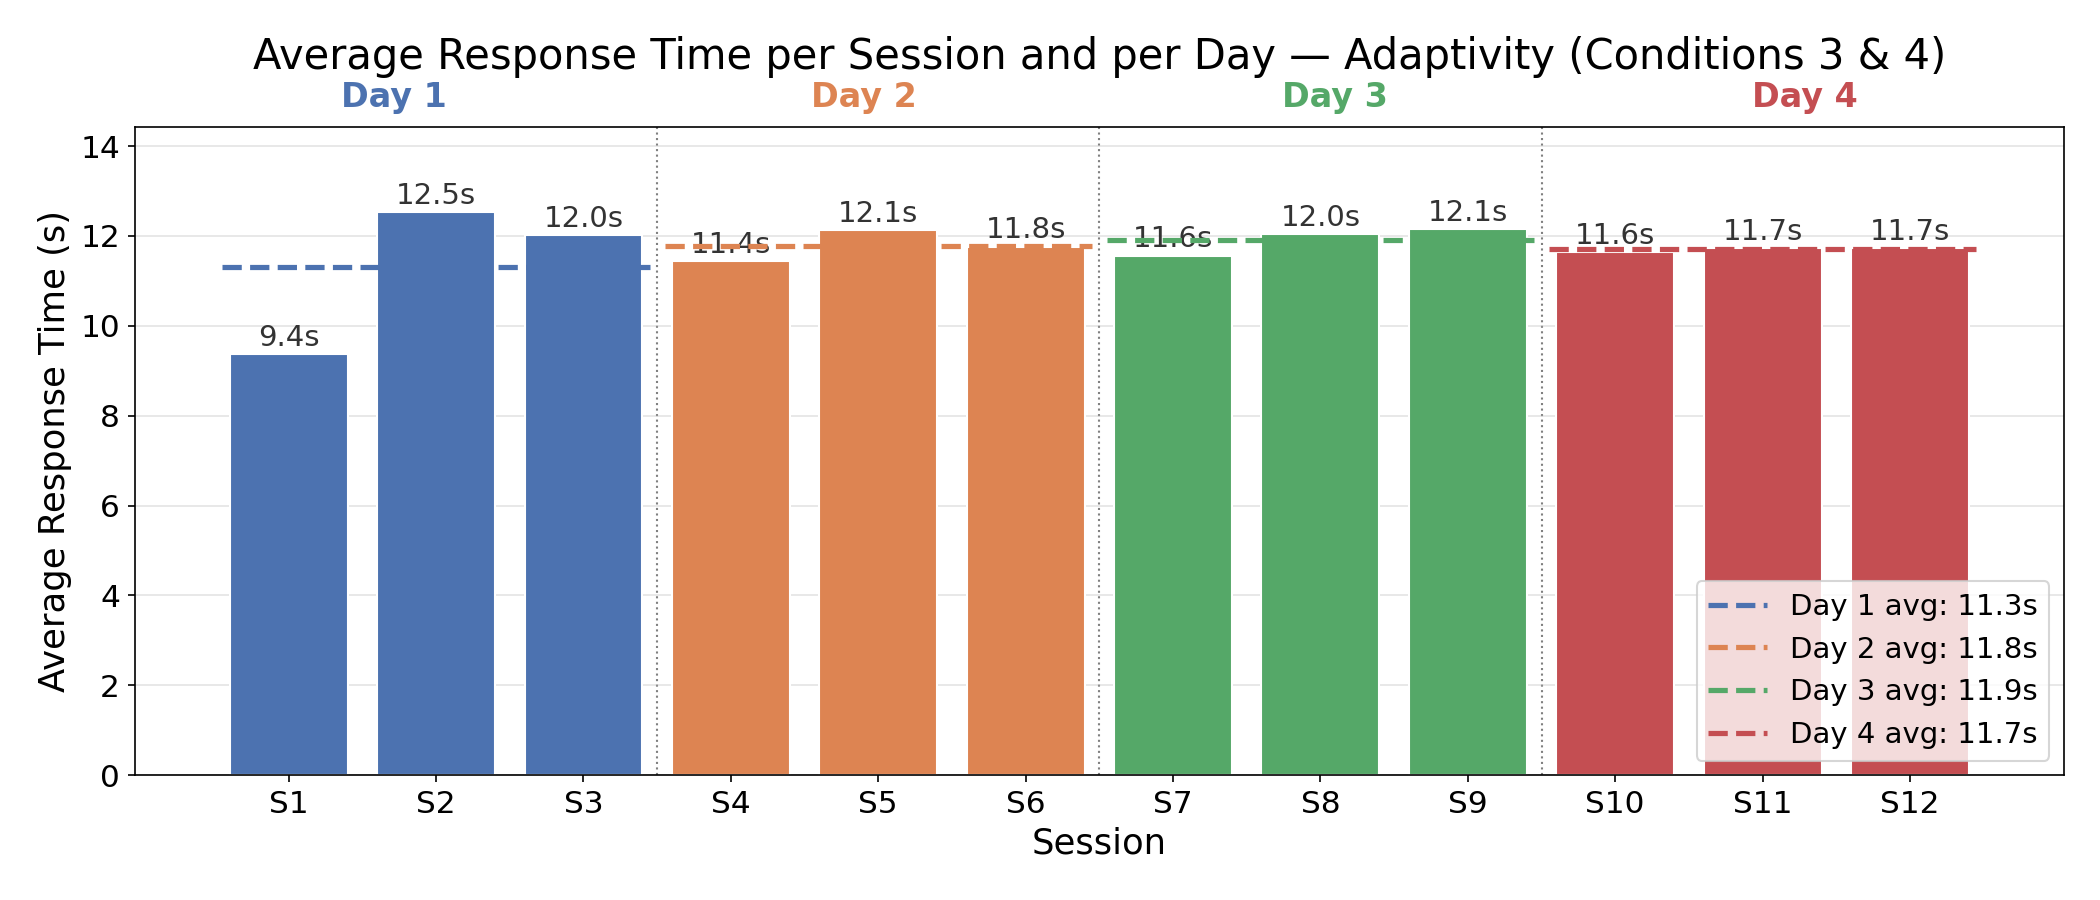
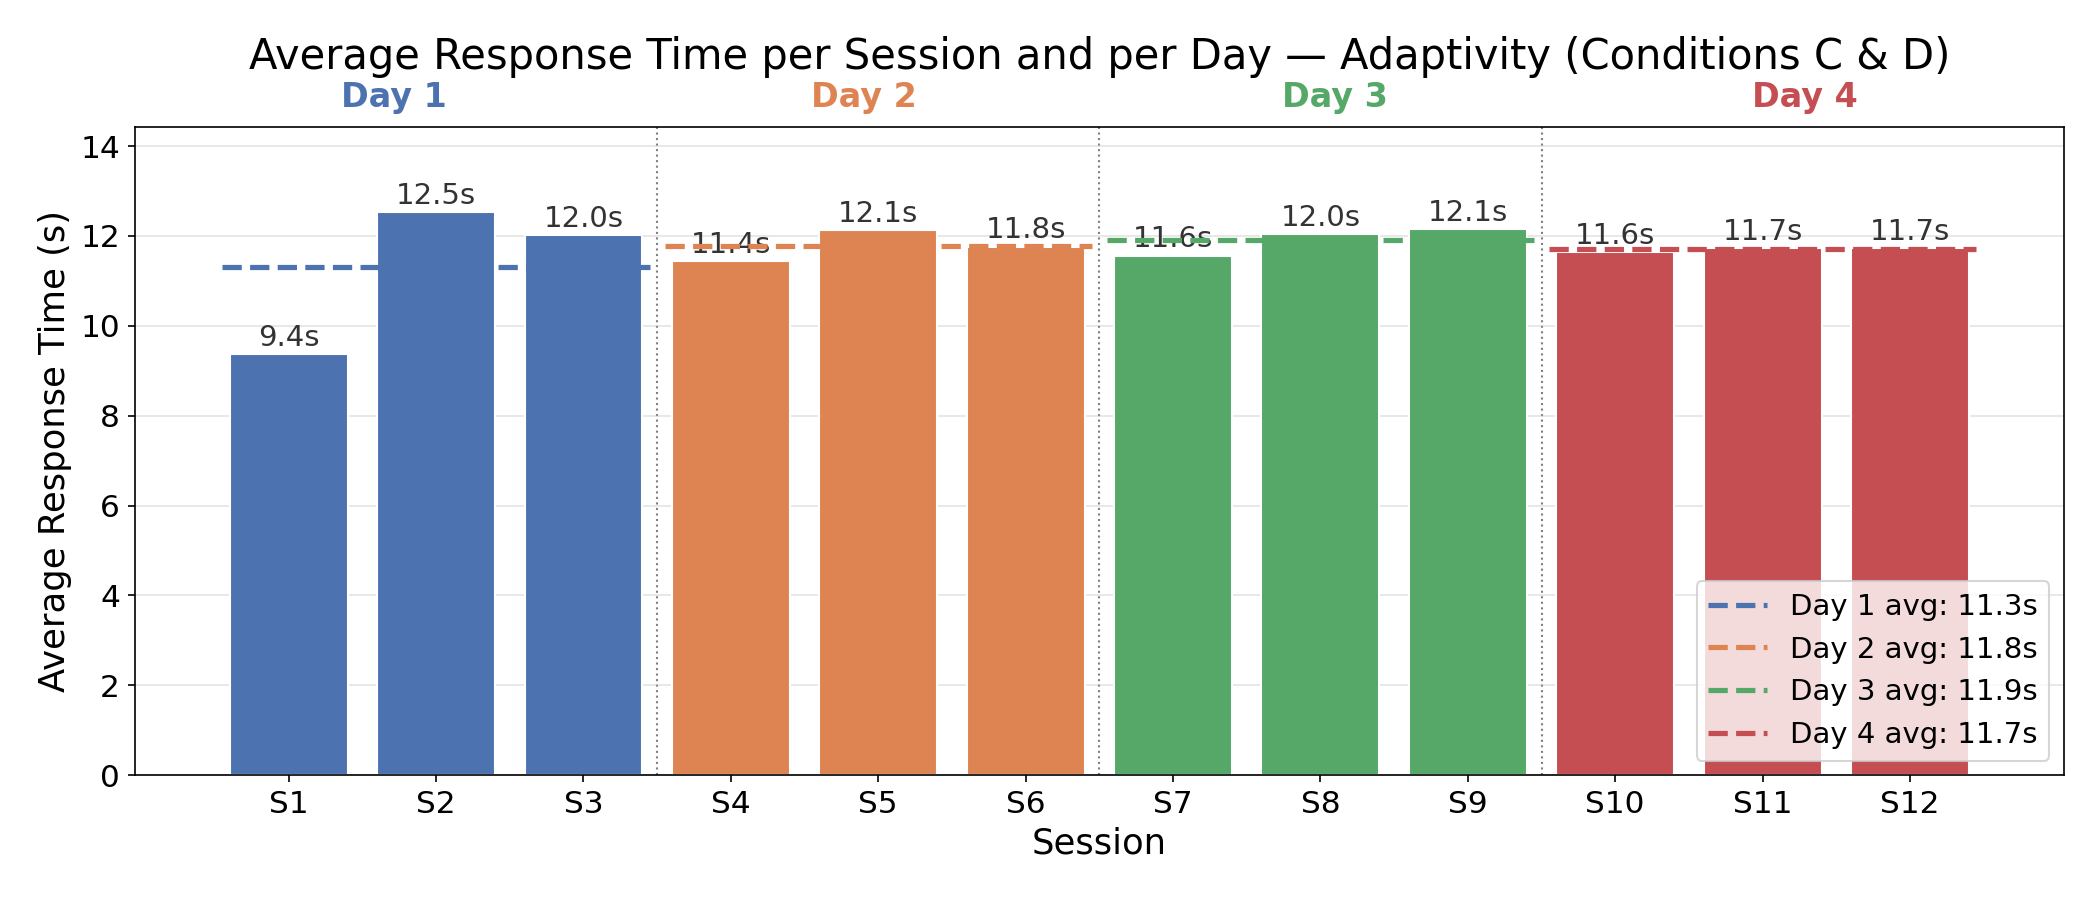
conditions letters

Changed region(s): [[0.1238, 0.0311, 0.9286, 0.0933]]

diff --git a/python/response_time_by_session.py b/python/response_time_by_session.py
@@ -153,12 +153,12 @@ def make_figure(csv_files, title, out_filename):
 
 make_figure(
     csv_files=["data/group_Conditie_1.csv", "data/group_Conditie_2.csv"],
-    title="Average Response Time per Session and per Day — No Adaptivity (Conditions 1 & 2)",
+    title="Average Response Time per Session and per Day — No Adaptivity (Conditions A & B)",
     out_filename="response_time_by_session_no_adaptivity.png",
 )
 
 make_figure(
     csv_files=["data/group_Conditie_3.csv", "data/group_Conditie_4.csv"],
-    title="Average Response Time per Session and per Day — Adaptivity (Conditions 3 & 4)",
+    title="Average Response Time per Session and per Day — Adaptivity (Conditions C & D)",
     out_filename="response_time_by_session_adaptivity.png",
 )

diff --git a/python/correctness_by_session.py b/python/correctness_by_session.py
@@ -149,12 +149,12 @@ def make_figure(csv_files, title, out_filename):
 
 make_figure(
     csv_files=["data/group_Conditie_1.csv", "data/group_Conditie_2.csv"],
-    title="Average Correctness per Session and per Day — No Adaptivity (Conditions 1 & 2)",
+    title="Average Correctness per Session and per Day — No Adaptivity (Conditions A & B)",
     out_filename="correctness_by_session_no_adaptivity.png",
 )
 
 make_figure(
     csv_files=["data/group_Conditie_3.csv", "data/group_Conditie_4.csv"],
-    title="Average Correctness per Session and per Day — Adaptivity (Conditions 3 & 4)",
+    title="Average Correctness per Session and per Day — Adaptivity (Conditions C & D)",
     out_filename="correctness_by_session_adaptivity.png",
 )
